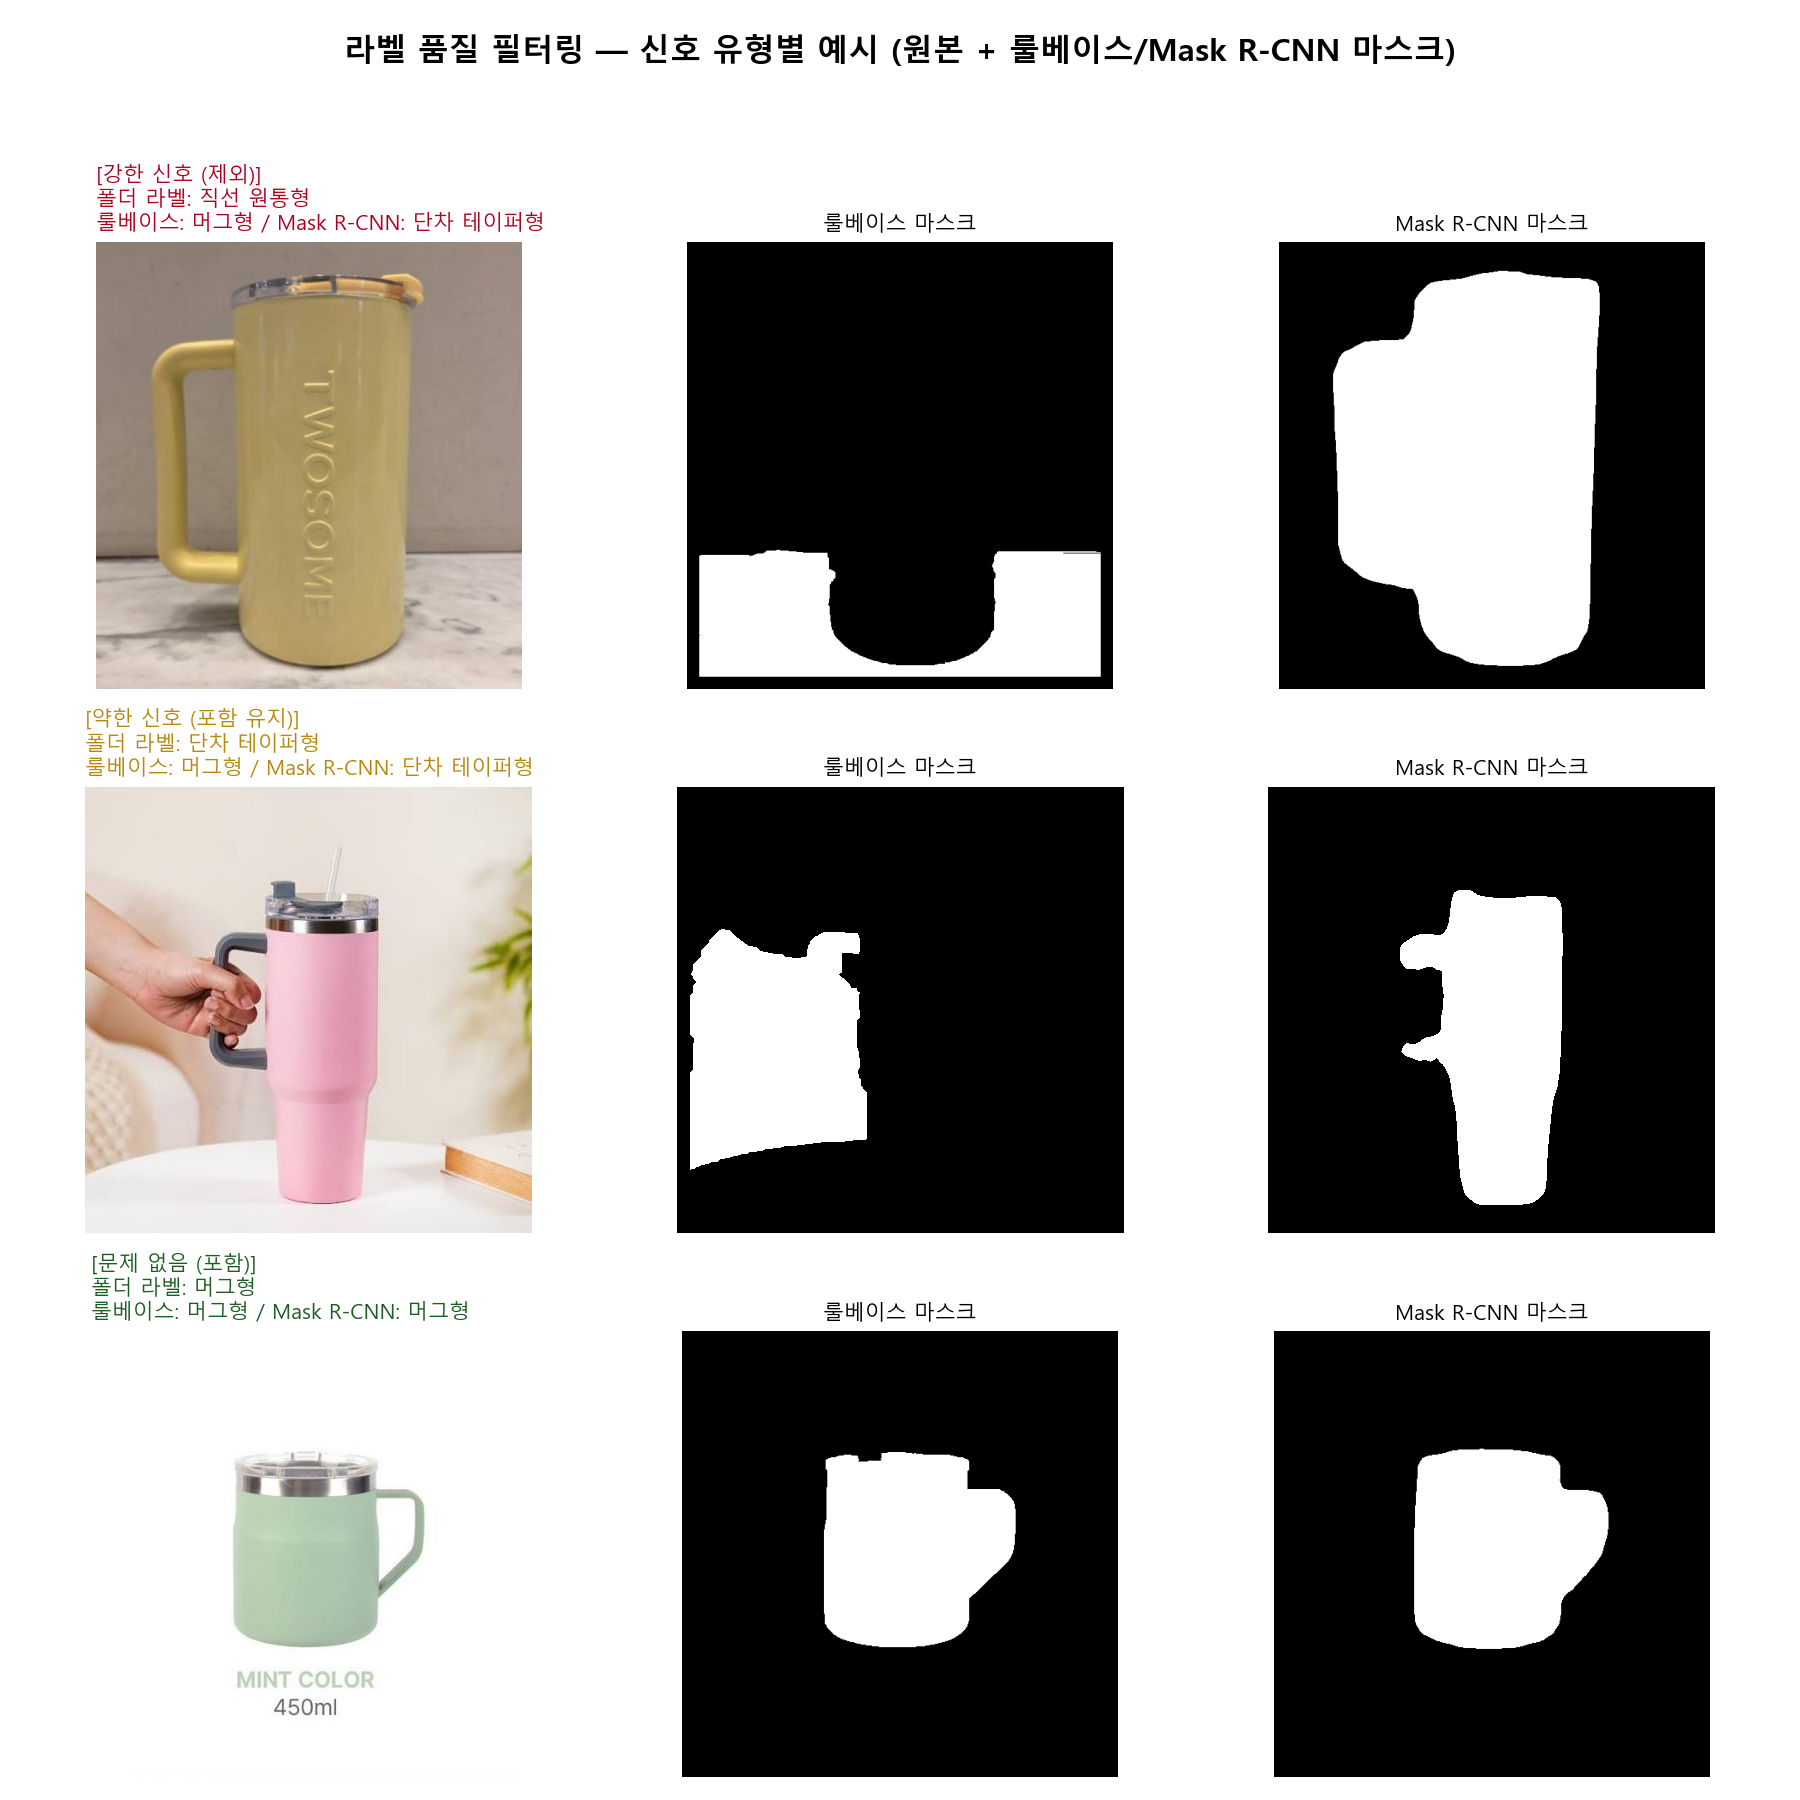
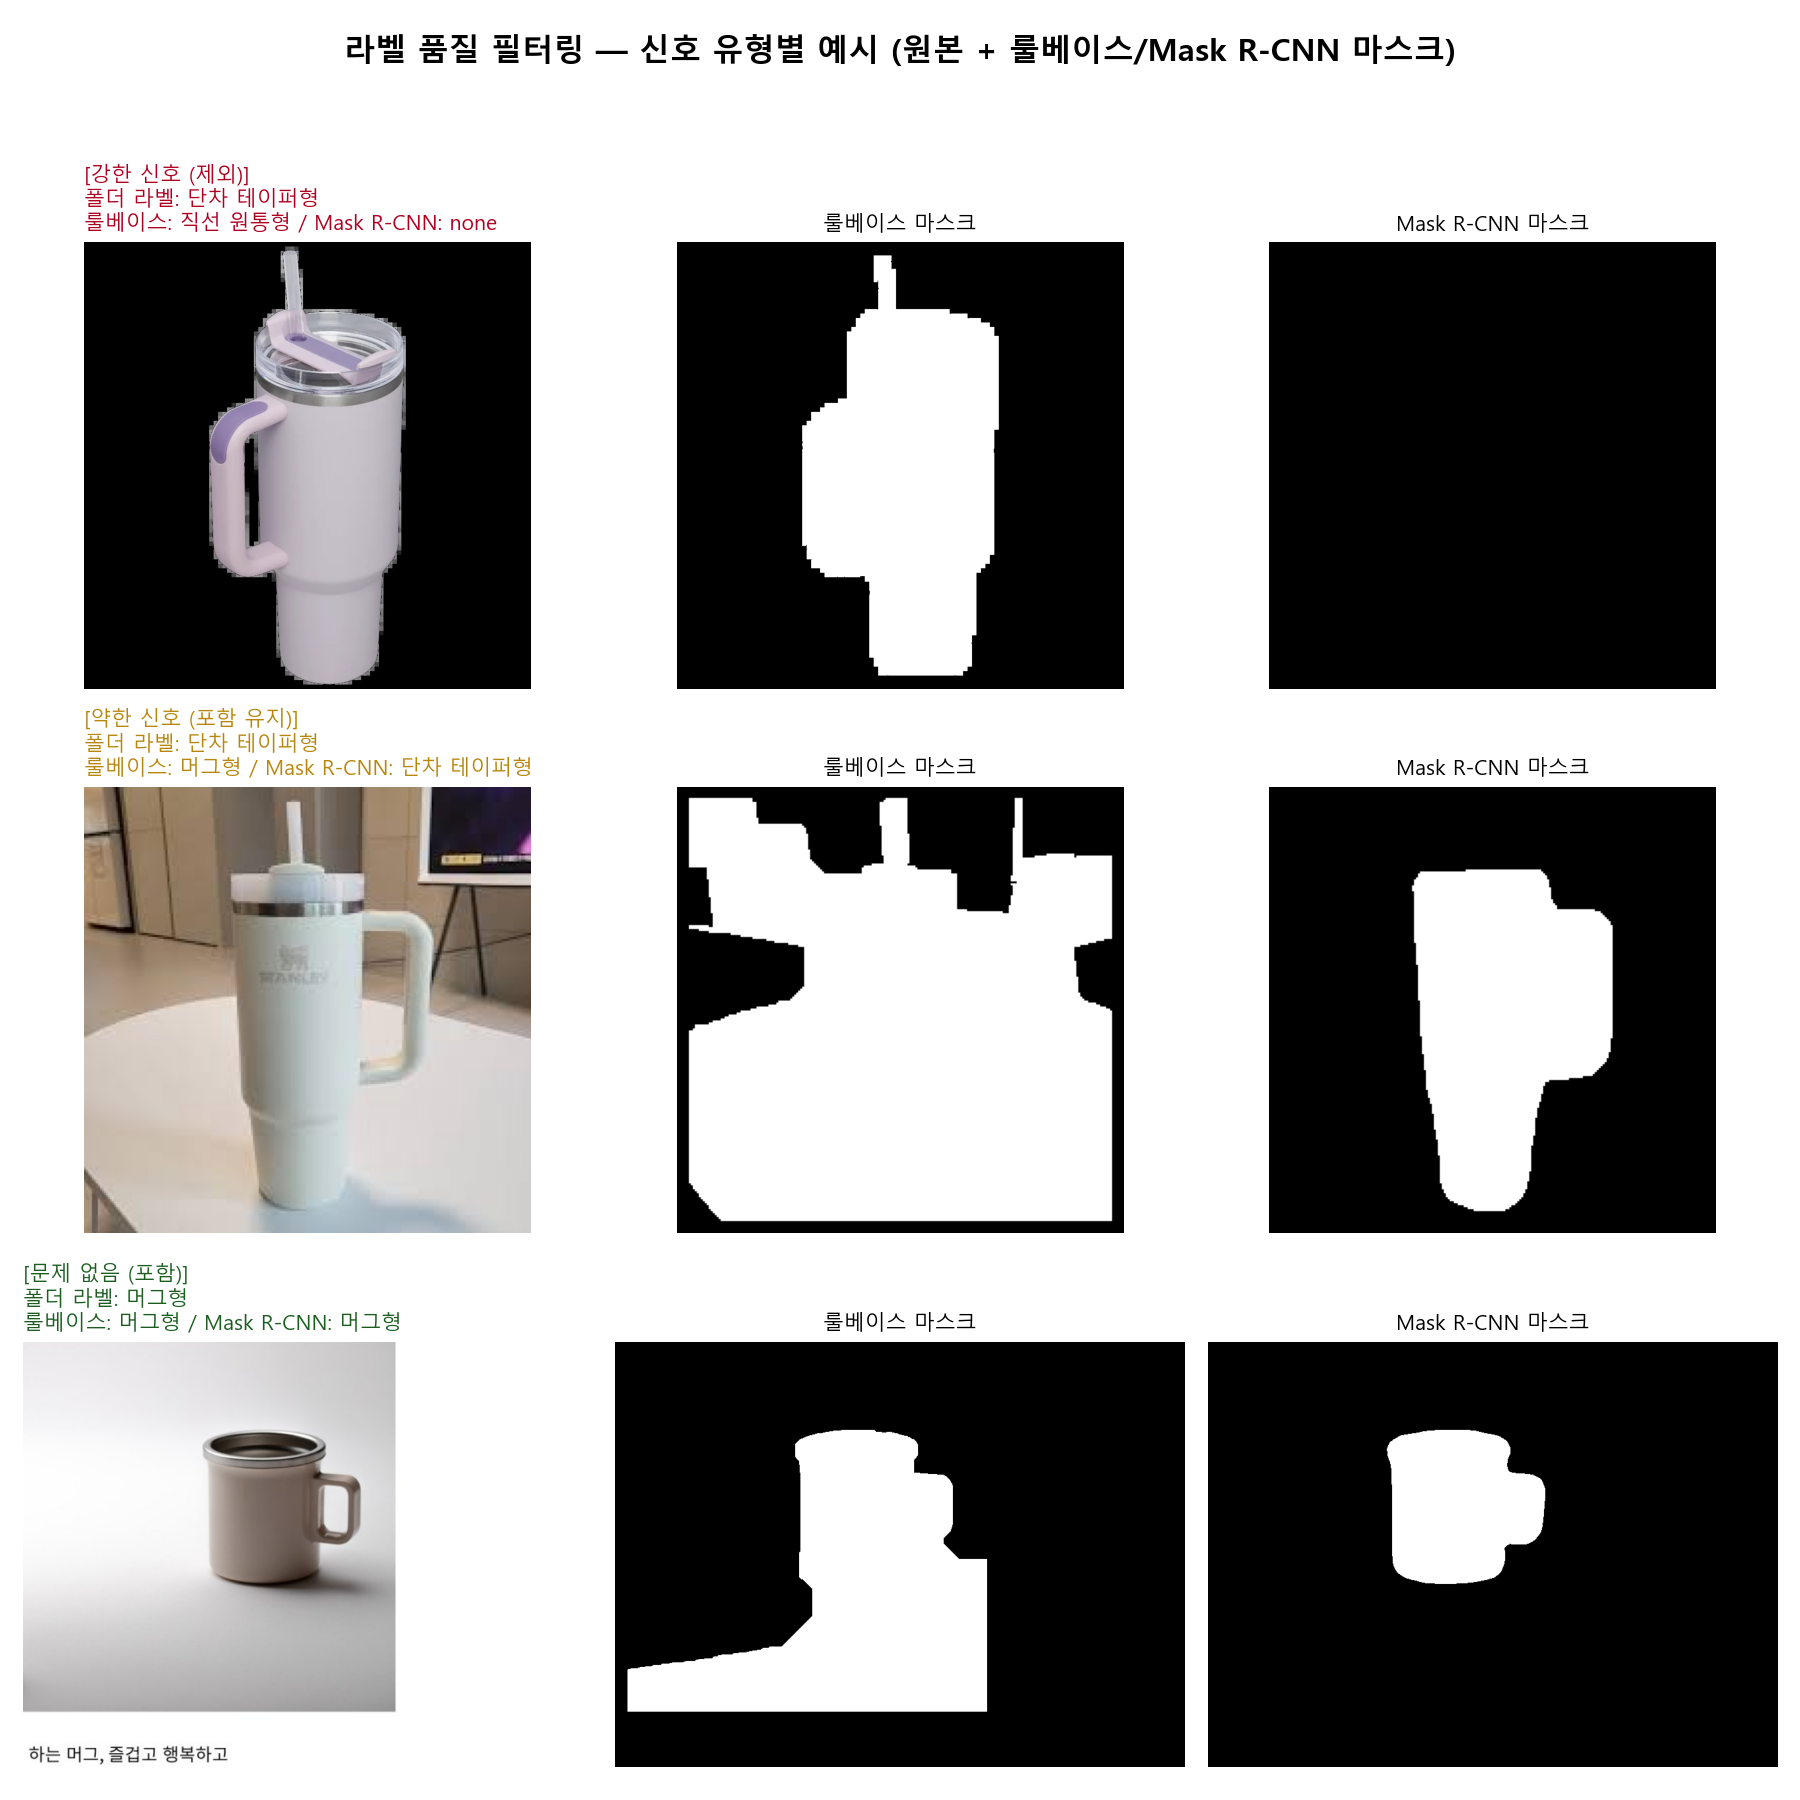
feat: 신호 유형 그림에 --reroll 옵션 추가 — 특정 유형만 독립적으로 재추첨
--reroll "약한 신호" 처럼 지정하면 그 유형만 --reroll-seed로 별도 재추첨되고
나머지 유형은 --seed로 뽑은 그대로 유지됨. 메인 rng는 항상 SIGNAL_TYPES
순서대로 소비하므로(재추첨 대상이어도 호출 자체는 건너뛰지 않음), 같은
--seed에서 재추첨 대상이 아닌 뒤 순서 유형의 결과가 이전과 동일하게 보존됨.

seed=17에서 "약한 신호"만 재추첨한 결과로 그림 갱신.

Claude-Session: https://claude.ai/code/session_017RchT2YestydpNo3gmGA3i

diff --git a/src/data_collection/make_label_signal_types_figure.py b/src/data_collection/make_label_signal_types_figure.py
@@ -79,6 +79,9 @@ def main() -> None:
     parser.add_argument("--raw2-root", default="data/raw2")
     parser.add_argument("--report", default="data/preprocess/label_quality_report.md")
     parser.add_argument("--seed", type=int, default=None, help="생략 시 매번 다른 조합이 뽑힘")
+    parser.add_argument("--reroll", choices=SIGNAL_TYPES, action="append", default=[],
+                         help="이 유형만 --seed와 별개로 재추첨(다른 유형은 --seed로 뽑은 그대로 유지). 여러 번 지정 가능")
+    parser.add_argument("--reroll-seed", type=int, default=None, help="--reroll 항목을 뽑을 시드(생략 시 매번 다르게 뽑힘)")
     parser.add_argument("--out", default="reports/figures/data_pipeline/label_signal_types_examples.png")
     args = parser.parse_args()
 
@@ -89,8 +92,19 @@ def main() -> None:
         print("일부 신호 유형에 후보가 없습니다 — report 경로를 확인하세요.")
         return
 
+    # 항상 SIGNAL_TYPES 순서대로 rng.choice()를 호출해 상태를 소비한다 — --reroll로
+    # 지정된 유형이라도 이 호출 자체는 건너뛰지 않아야, 재추첨 대상이 아닌 뒤 순서
+    # 유형(예: 문제 없음)이 같은 --seed에서 이전과 동일하게 뽑힌다.
     rng = random.Random(args.seed)
-    picks = {s: rng.choice(by_signal[s]) for s in SIGNAL_TYPES}
+    picks = {}
+    for s in SIGNAL_TYPES:
+        picks[s] = rng.choice(by_signal[s])
+
+    if args.reroll:
+        reroll_rng = random.Random(args.reroll_seed)
+        for s in args.reroll:
+            picks[s] = reroll_rng.choice(by_signal[s])
+            print(f"[재추첨] {s} -> 별도 시드로 다시 뽑음")
 
     print("\nMask R-CNN 모델 로드 중...")
     mrcnn_model, device = load_model()
